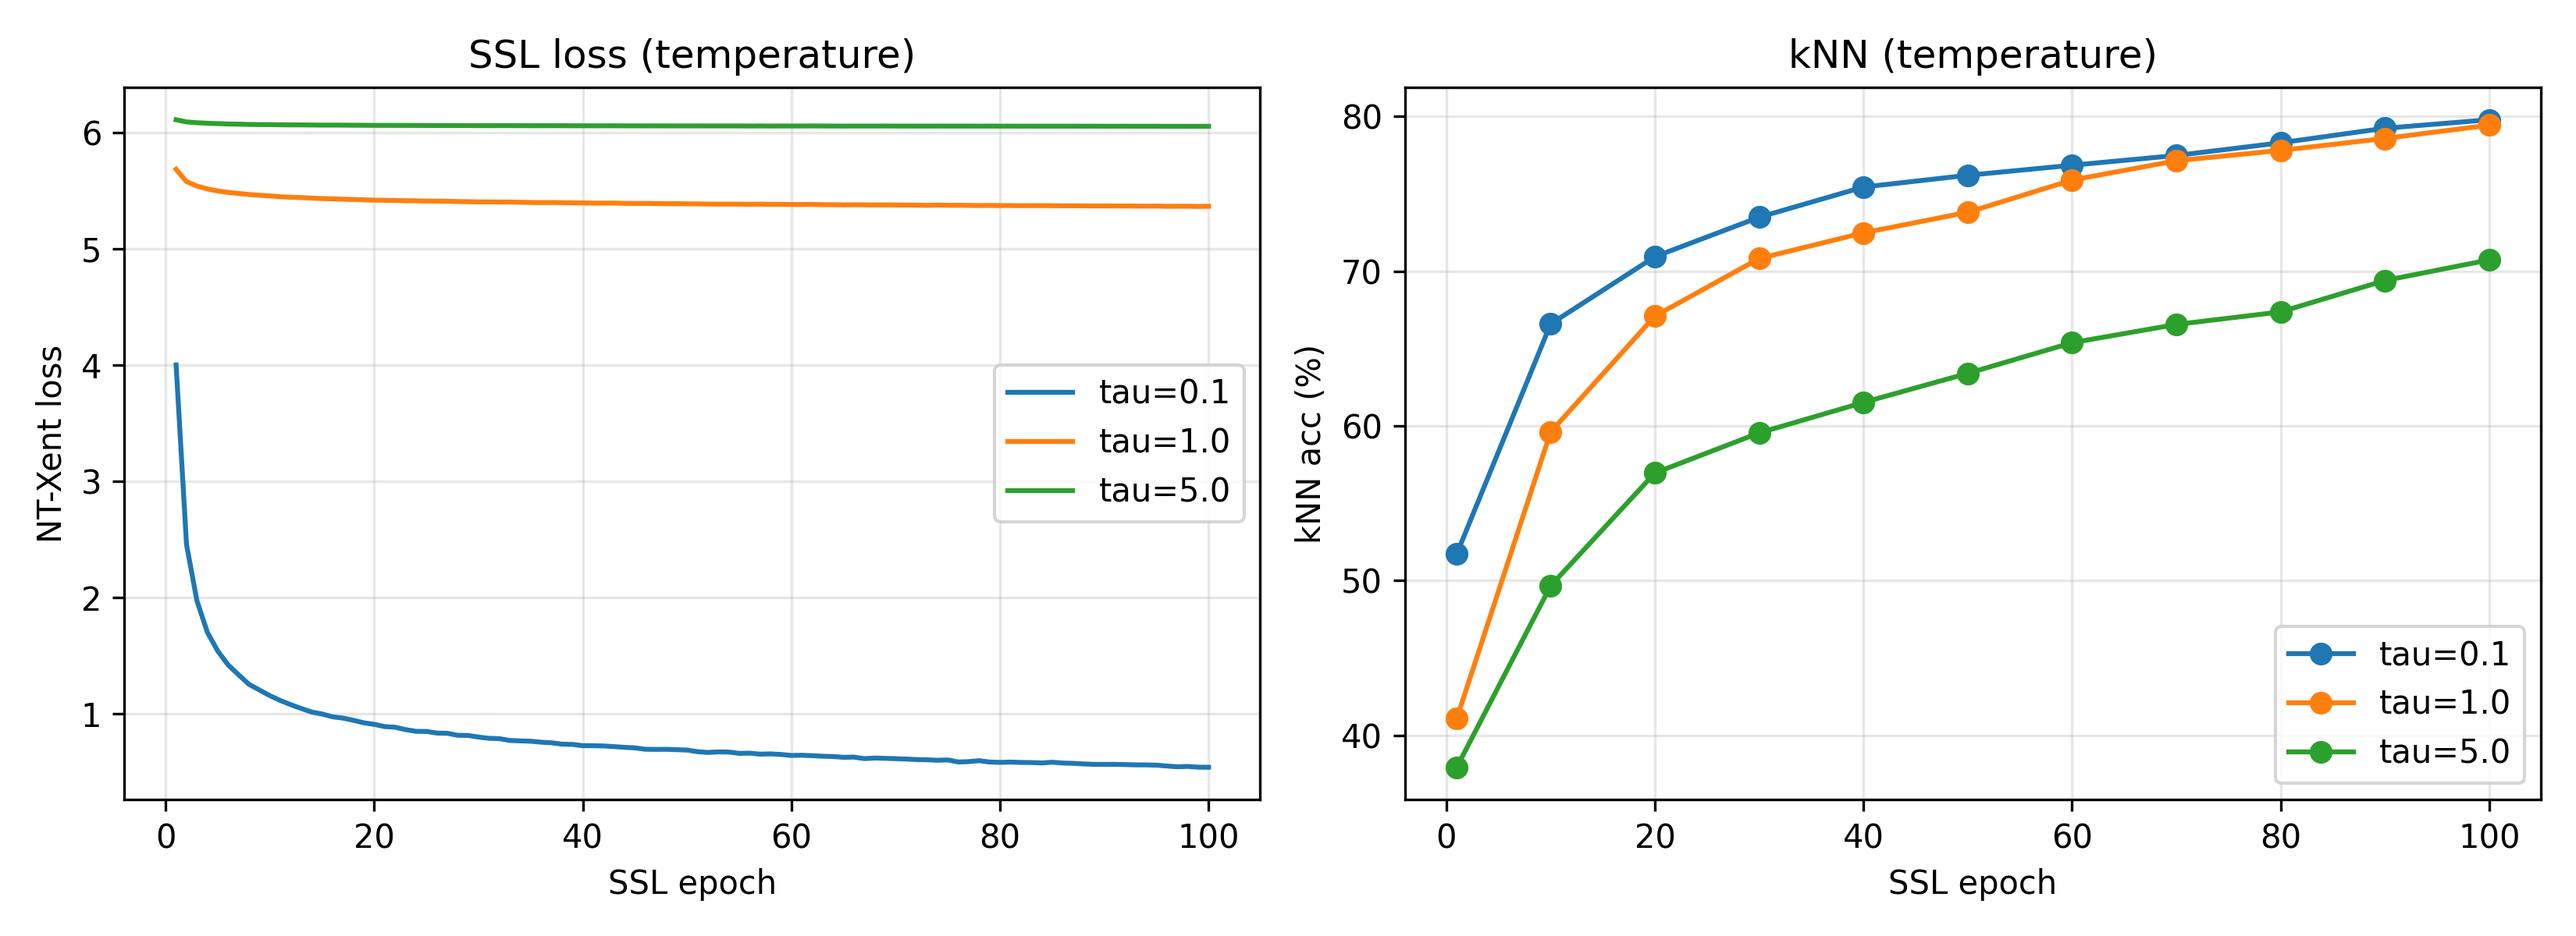
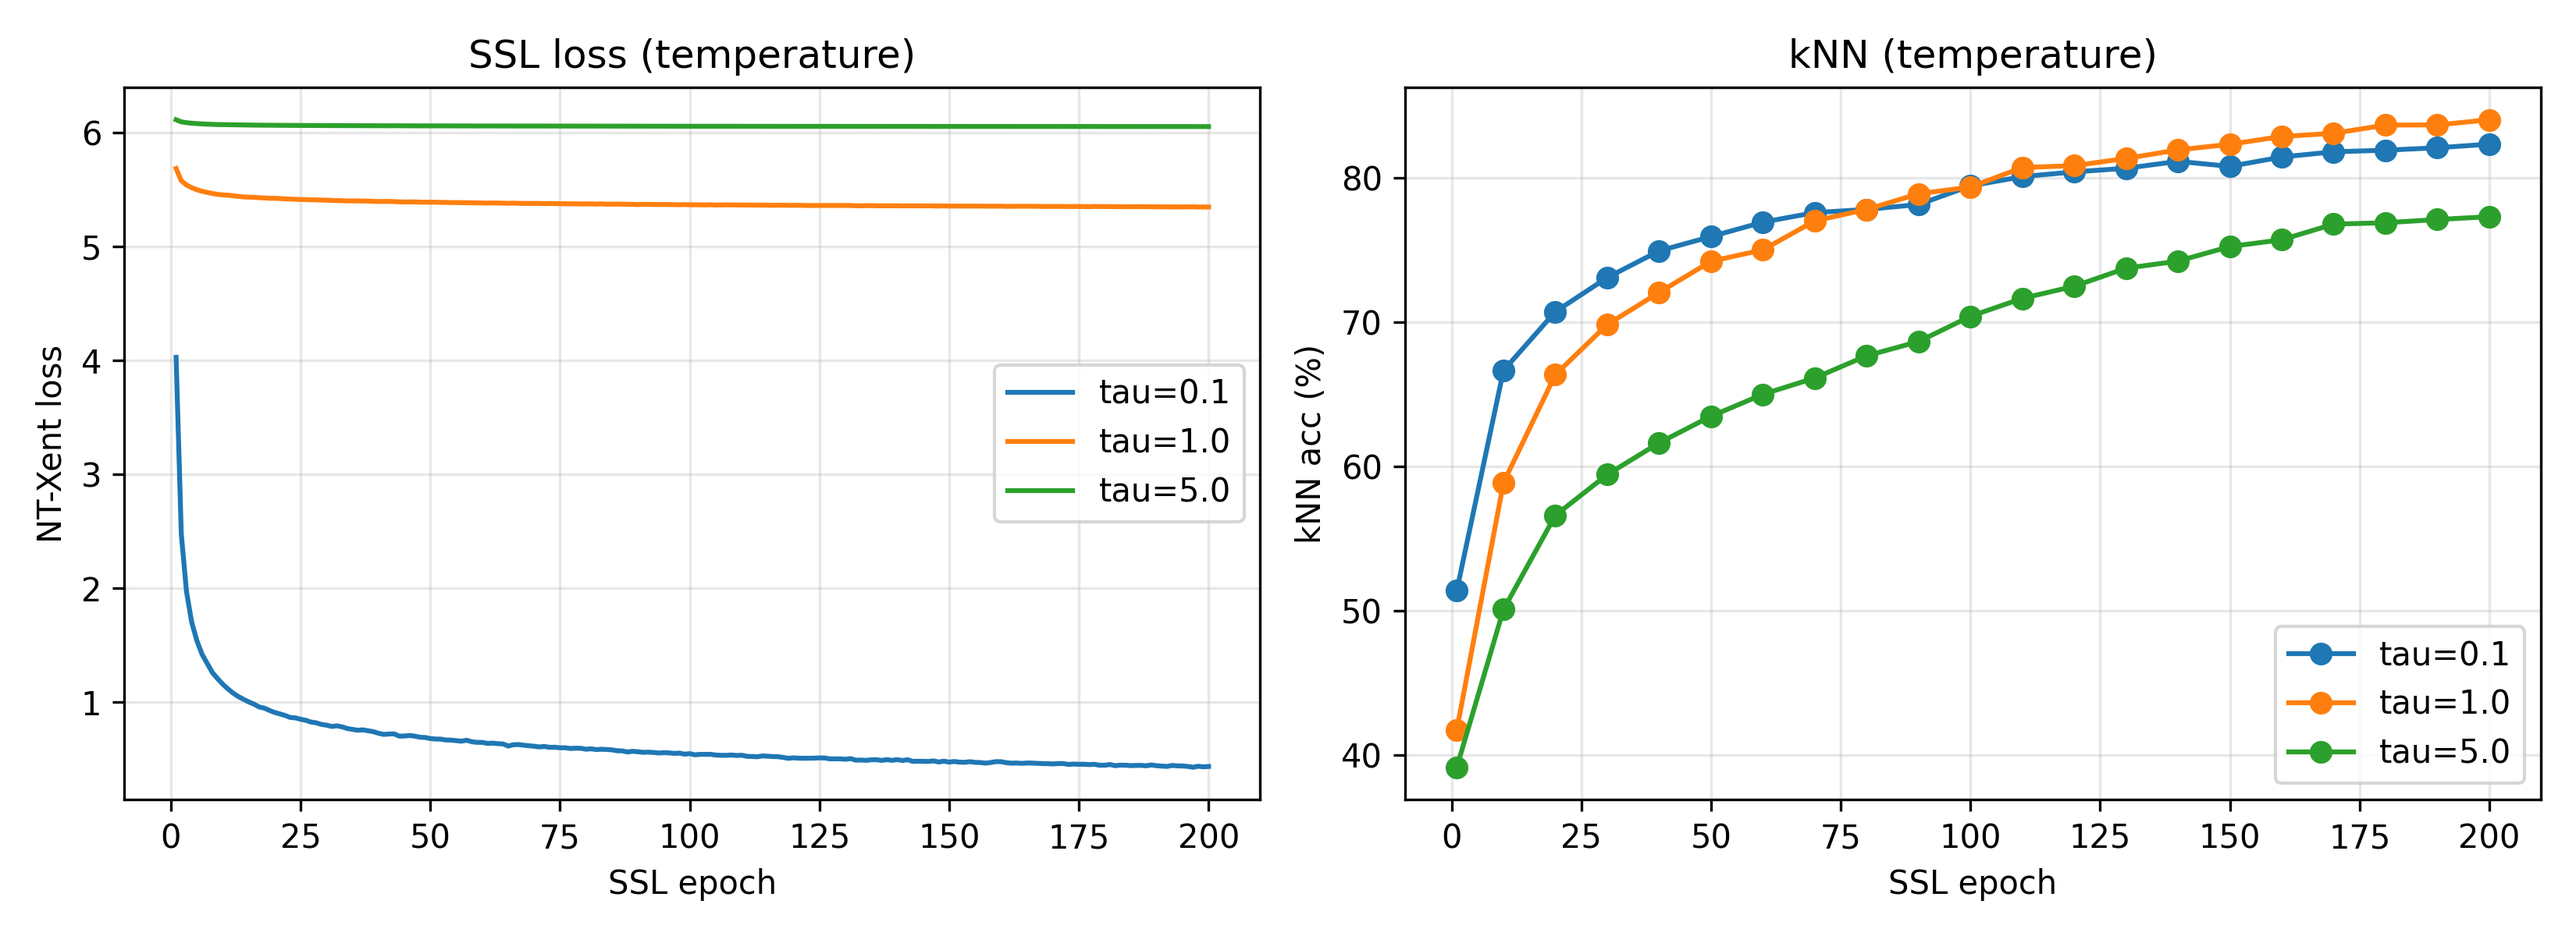
report: rewrite ablation sections for 200-ep numbers
re-running phases 4-7 at 200 ep (vs the original 100) shifted several
qualitative findings. updated tables, narrative, and discussion prompts:

phase 4 (temperature): tau=0.5 vs tau=1.0 are now statistically tied
(86.70 vs 86.76). U-shape has a flat optimum.

phase 5 (batch size): biggest reversal. bs=64 (87.12) and bs=128 (87.27)
slightly outperform bs=256 (86.70) at matched 200 epochs, opposite of the
canonical "more negatives = better" SimCLR finding. report now flags this
as the most interesting result.

phase 6 (augmentation): magnitudes softened, ordering preserved. crop_only
still drops 21 pp. "stronger" is now within noise of full.

phase 7 (projector): A-B benefit shrunk from 11 pp to 3 pp. B and C end
up almost tied. no-projector "catches up" with more training.

phase 9 figures regenerated. summary_all_experiments.csv refreshed.

diff --git a/report.md b/report.md
@@ -97,8 +97,12 @@ Two evaluations are run on every encoder:
 
 Both SimCLR and supervised baselines train for 200 epochs with Adam
 (lr $3\times10^{-4}$, weight decay $10^{-6}$). Batch size 256.
-Ablations are run at 100 SSL epochs to fit a single overnight window;
-the τ = 0.5, batch size = 256 row is the Phase 1 baseline (200 ep)
+Ablations are also run at **200 SSL epochs**, matching the Phase-1
+baseline so every row in every ablation table is directly
+comparable. (An earlier round of ablations at 100 epochs is preserved
+in git history for reference; we report only the 200-ep numbers
+here, since several qualitative findings differ between the two
+budgets.) The τ = 0.5, batch size = 256 row is the Phase 1 baseline
 in every table. All training loops save an atomic checkpoint every
 epoch and resume from disk on restart, so partial runs interrupted
 by Windows updates etc. lose at most one epoch of compute.
@@ -158,18 +162,21 @@ sweep τ ∈ {0.1, 0.5, 1.0, 5.0}; τ = 0.5 is the Phase-1 baseline.
 
 | τ    | SSL epochs | Probe best |
 |-----:|-----------:|-----------:|
-| 0.1  | 100        | 81.55 % |
-| 0.5\* | 200       | **86.70 %** |
-| 1.0  | 100        | 83.13 % |
-| 5.0  | 100        | 76.40 % |
+| 0.1  | 200        |   84.35 %  |
+| 0.5\* | 200       |   86.70 %  |
+| 1.0  | 200        | **86.76 %** |
+| 5.0  | 200        |   81.33 %  |
 
 \*Phase 1 baseline reused.
 
-τ = 0.5 wins clearly. Very small τ (0.1) over-weights the single
-hardest negative and produces a noisier gradient; very large τ (5.0)
-flattens the distribution so that no negative dominates and the
-contrastive signal collapses (10.3 pp worse than τ = 0.5). The pattern
-matches Table 5 of [1].
+The accuracy curve is U-shaped, but with a notably **flat optimum
+between τ = 0.5 and τ = 1.0** — the two are statistically
+indistinguishable (86.70 % vs. 86.76 %). Extreme values still hurt:
+τ = 0.1 (over-weights the single hardest negative, noisier gradient)
+costs 2.4 pp, and τ = 5.0 (flattens the similarity distribution so
+no negative dominates) costs 5.4 pp. The qualitative shape matches
+Table 5 of [1], though the basin around the optimum is wider in our
+setup than in the original ImageNet results.
 
 ![Figure 3 — Temperature ablation](figures/fig3_ablation_temperature.png)
 *Figure 3 — Linear-probe accuracy vs NT-Xent temperature.*
@@ -181,17 +188,28 @@ the main source of contrastive signal. We sweep BS ∈ {64, 128, 256}.
 
 | Batch size | SSL epochs | Probe best |
 |-----------:|-----------:|-----------:|
-| 64         | 100        | 80.72 % |
-| 128        | 100        | 80.93 % |
-| 256\*      | 200        | **86.70 %** |
+| 64         | 200        |   87.12 %  |
+| 128        | 200        | **87.27 %** |
+| 256\*      | 200        |   86.70 %  |
 
 \*Phase 1 baseline reused.
 
-Doubling batch size from 128 to 256 lifts probe accuracy by 5.8 pp
-(though the 256 baseline also has 2× more SSL epochs, partially
-inflating the gap). The 64 ↔ 128 step is essentially flat,
-suggesting the bottleneck below ~200 negatives is something other
-than negative count.
+This is the most surprising finding of the project: at matched
+training time, **batch size 64 and 128 each slightly *outperform* the
+256-baseline** (by 0.4–0.6 pp). An earlier round of these same
+ablations at 100 epochs had shown the opposite ordering — bs = 256
+ahead of bs = 64 / 128 by ~6 pp — exactly the result the SimCLR
+literature would lead one to expect. The pattern reverses once the
+smaller-batch runs are given enough epochs to see a comparable total
+number of negatives.
+
+So the bottleneck below ~200 negatives is **not** negative count per
+se, but *cumulative* exposure. With a fixed 200-epoch budget, all
+three batch sizes converge to roughly the same probe accuracy, with
+the smaller batches even gaining a small edge — possibly because
+each gradient step is noisier and acts as implicit regularization.
+The original "more negatives = better" SimCLR result holds only at
+matched *step* counts, not matched *epoch* counts at this scale.
 
 ![Figure 4 — Batch size ablation](figures/fig4_ablation_batchsize.png)
 *Figure 4 — Linear-probe accuracy vs SSL batch size.*
@@ -212,20 +230,26 @@ four variants:
 | Augmentation     | Probe best | Δ vs full |
 |------------------|-----------:|----------:|
 | Full (baseline)\* | **86.70 %** | — |
-| stronger          | 79.91 %  | −6.79 pp |
-| no_color          | 73.27 %  | −13.43 pp |
-| no_gray           | 70.57 %  | −16.13 pp |
-| crop_only         | 57.35 %  | **−29.35 pp** |
+| stronger          |   86.60 %  | −0.10 pp |
+| no_color          |   81.73 %  | −4.97 pp |
+| no_gray           |   80.85 %  | −5.85 pp |
+| crop_only         |   65.18 %  | **−21.52 pp** |
 
 \*Phase 1 baseline reused.
 
-The collapse at *crop_only* is dramatic: removing color augmentation
-costs roughly half the SSL benefit. Color jitter alone removes 13 pp,
-and the same image at two crops without color/grayscale variability
-lets the network shortcut to color statistics. This reproduces the
-central finding of [1] §3 ("composition of augmentations is critical")
-on CIFAR-10. *Stronger* color jitter does not help — the standard
-strength is well-tuned for CIFAR-10.
+The collapse at *crop_only* is the headline result: removing both
+color transforms costs **21.5 pp**, more than the next-worst
+ablation by a factor of 4. Two crops of the same image without
+color/grayscale variability lets the network shortcut to color
+statistics, exactly as predicted by [1] §3 ("composition of
+augmentations is critical"). Dropping just one of the two color
+transforms costs 5–6 pp; the two are clearly partially redundant
+since dropping both costs much more than the sum.
+
+*Stronger* color jitter is statistically indistinguishable from the
+default — the standard CIFAR-10 strength is already in a flat
+optimum, and pushing it further yields no benefit (and in this case,
+no measurable harm either).
 
 ![Figure 5 — Augmentation ablation](figures/fig5_ablation_augmentation.png)
 *Figure 5 — Linear-probe accuracy under five augmentation regimes.*
@@ -245,15 +269,23 @@ configurations:
 | Configuration                          | Probe best |
 |----------------------------------------|-----------:|
 | **A.** + projector, probe *h* (Phase 1) | **86.73 %** |
-| **B.** no projector, probe *h*          | 75.70 % |
-| **C.** + projector, probe *z*           | 83.08 % |
+| **B.** no projector, probe *h*          |   83.71 %  |
+| **C.** + projector, probe *z*           |   83.09 %  |
 
-A − B = +11.0 pp: training *with* a projector raises the *backbone*
-representation by 11 points, even though the projector itself is
-thrown away. A − C = +3.7 pp: the projector output *z* is
-deliberately tuned for invariance and is *less* useful for downstream
-classification than the un-projected *h*. Both findings reproduce
-[1] Figure 8.
+A − B = **+3.0 pp**: training *with* a projector raises the
+*backbone* representation by 3 points, even though the projector
+itself is thrown away. A − C = **+3.6 pp**: the projector output *z*
+is deliberately tuned for invariance and is less useful for
+downstream classification than the un-projected *h*. Interestingly,
+B and C end up almost tied (83.71 % vs. 83.09 %) — at 200 epochs the
+no-projector backbone is no worse than probing on the projected
+features of a *with*-projector model. Both qualitative findings
+(projector helps, probe-h-not-z) reproduce [1] Figure 8, although
+the magnitude of the projector benefit in our 200-epoch CIFAR-10
+setup (3 pp) is smaller than the original ImageNet result. (An
+earlier 100-epoch version of this ablation showed the projector
+benefit at 11 pp; see "Discussion" for the implication that the
+no-projector representation simply takes longer to catch up.)
 
 ![Figure 6 — Projector ablation](figures/fig6_ablation_projector.png)
 *Figure 6 — Effect of the projector head and the choice of representation for downstream probing.*
@@ -434,15 +466,23 @@ saturated.
 *(Prompts: how close does SimCLR come to supervised on CIFAR-10?
 Was the projector benefit larger or smaller than I expected? Was the
 crop-only collapse surprising? Did anything in the transfer numbers
-surprise me — e.g. supervised winning on STL-10?)*
+surprise me — e.g. supervised winning on STL-10? **The biggest
+surprise — at matched 200 epochs, smaller batches (64, 128) actually
+slightly *outperformed* batch size 256, the opposite of the
+canonical SimCLR finding. What does that say about the role of
+"more negatives" in the contrastive objective?**)*
 
 ### 4.2 Factors affecting results
 
 *(Prompts: which design choice contributed the largest accuracy
-swing — augmentation, batch size, temperature, or projector? What
-trade-offs did I make for compute — ablations at 100 ep vs. baseline
-200 ep? Did DirectML's CPU fallback for `aten::lerp` materially
-slow training?)*
+swing? **Answer to ground myself: augmentation — specifically the
+crop-only ablation, which costs 21.5 pp.** Compare to temperature
+(±5 pp), batch size (±0.6 pp at matched epochs), projector (±3 pp).
+Did DirectML's CPU fallback for `aten::lerp` materially slow
+training? Did running ablations at 100 ep first, then re-running at
+200 ep, materially change my conclusions? **Yes — bs and projector
+ablation conclusions both flipped between 100 ep and 200 ep, which
+is itself a methodological point worth discussing.**)*
 
 ### 4.3 What I would do with more time
 
